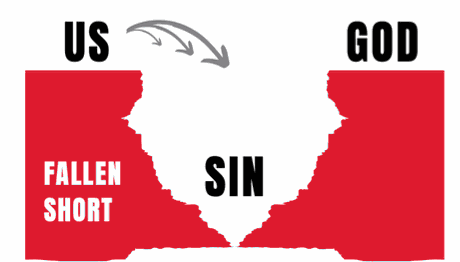
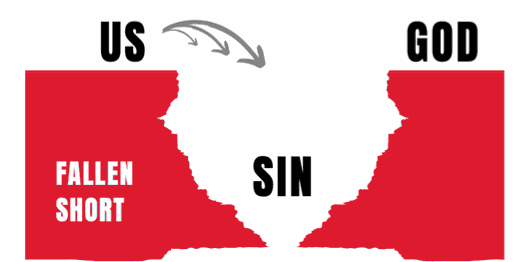
GL: bridge cliffs, baptism circles, remove pp35-36, p25 lines

diff --git a/2 - Group Leaders.html b/2 - Group Leaders.html
@@ -122,7 +122,7 @@
   section[data-screen-label="Make Disciples—I.W.T.F.C."] .row{padding:9px 0}
   section[data-screen-label="Make Disciples—I.W.T.F.C."] .row .k{font-family:var(--font-display);font-size:20px;line-height:1;padding-top:0}
   .iwt .iwl{color:var(--ember)}
-  .row.iwrow{border-bottom:1px solid var(--hairline)}
+  .row.iwrow{border-bottom:none}
   .t.iwt{display:flex;align-items:center;gap:12px;flex-wrap:wrap}
   .iwt .iw{font-family:var(--font-display);font-weight:700;text-transform:uppercase;font-size:20px;line-height:1;color:var(--fg1);letter-spacing:-.005em}
   .iwt .iq{font-size:13.5px;font-weight:600;color:var(--ember)}
@@ -440,10 +440,10 @@
 
   /* number device (block + circle bites) + section bar */
   .bsec{display:flex;align-items:stretch;height:50px;flex:none}
-  .bk{flex:none;width:38px;background:radial-gradient(circle 28px at calc(100% + 20px) 50%, transparent 27.6px, var(--bblue) 28px);border-radius:12px 0 0 12px}
-  .bnc{flex:none;width:40px;display:flex;align-items:center;justify-content:center}
-  .bnc span{font-family:var(--font-display);color:var(--bblue);font-size:28px;line-height:1}
-  .bar{flex:1;min-width:0;background:radial-gradient(circle 28px at -20px 50%, transparent 27.6px, var(--bblue) 28px);border-radius:0 9px 9px 0;display:flex;align-items:center;padding:0 20px 0 24px}
+  .bk{flex:none;width:33px;background:var(--bblue);border-radius:12px 0 0 12px}
+  .bnc{flex:none;width:50px;display:flex;align-items:center;justify-content:center;background:radial-gradient(circle 25px at 50% 50%, #fff 24.4px, var(--bblue) 25px)}
+  .bnc span{font-family:var(--font-display);font-weight:700;color:var(--bblue);font-size:26px;line-height:1}
+  .bar{flex:1;min-width:0;background:var(--bblue);border-radius:0 9px 9px 0;display:flex;align-items:center;padding:0 20px 0 24px}
   .bar h3{font-family:var(--font-display);color:#fff;font-size:22px;letter-spacing:.02em;margin:0;text-transform:uppercase;display:flex;align-items:baseline;gap:7px;white-space:nowrap}
   .bar h3 .to{font-family:var(--font-body);font-style:italic;font-weight:600;font-size:14px;letter-spacing:.01em}
 
@@ -799,7 +799,7 @@ section[data-screen-label="Your Role—Luke 9 Rhythms"] .rt span em{font-style:n
     <div class="eyebrow">What&rsquo;s Inside</div>
     <h2 class="disp">Contents</h2>
     <div class="hr"></div>
-    <div class="rows"><div class="trow"><span class="tn">01</span><span class="tt">Mission + Mantras<small>Who we are &amp; what guides us</small></span><span class="tp">03</span></div><div class="trow"><span class="tn">02</span><span class="tt">Group Leader<small>What we ask &amp; what a win looks like</small></span><span class="tp">09</span></div><div class="trow"><span class="tn">03</span><span class="tt">Leading Well in Groups<small>Before, during &amp; when it gets hard</small></span><span class="tp">13</span></div><div class="trow"><span class="tn">04</span><span class="tt">Shepherding Students Beyond Groups<small>Trust, follow-up &amp; discipleship</small></span><span class="tp">19</span></div><div class="trow"><span class="tn">05</span><span class="tt">Decision Guide<small>Helping students take their next step</small></span><span class="tp">27</span></div><div class="trow"><span class="tn">06</span><span class="tt">Safety &amp; Care<small>In person, online &amp; tough conversations</small></span><span class="tp">31</span></div><div class="trow"><span class="tn">07</span><span class="tt">Big Three<small>Launch, Leader Night, Celebration &amp; Unleashed</small></span><span class="tp">37</span></div><div class="trow"><span class="tn">08</span><span class="tt">Further Resources<small>Questions &amp; values that keep us aligned</small></span><span class="tp">41</span></div></div>
+    <div class="rows"><div class="trow"><span class="tn">01</span><span class="tt">Mission + Mantras<small>Who we are &amp; what guides us</small></span><span class="tp">03</span></div><div class="trow"><span class="tn">02</span><span class="tt">Group Leader<small>What we ask &amp; what a win looks like</small></span><span class="tp">09</span></div><div class="trow"><span class="tn">03</span><span class="tt">Leading Well in Groups<small>Before, during &amp; when it gets hard</small></span><span class="tp">13</span></div><div class="trow"><span class="tn">04</span><span class="tt">Shepherding Students Beyond Groups<small>Trust, follow-up &amp; discipleship</small></span><span class="tp">19</span></div><div class="trow"><span class="tn">05</span><span class="tt">Decision Guide<small>Helping students take their next step</small></span><span class="tp">27</span></div><div class="trow"><span class="tn">06</span><span class="tt">Safety &amp; Care<small>In person, online &amp; tough conversations</small></span><span class="tp">31</span></div><div class="trow"><span class="tn">07</span><span class="tt">Big Three<small>Launch, Leader Night, Celebration &amp; Unleashed</small></span><span class="tp">35</span></div><div class="trow"><span class="tn">08</span><span class="tt">Further Resources<small>Questions &amp; values that keep us aligned</small></span><span class="tp">39</span></div></div>
     <div class="foot"><span class="sec">SE Students</span><span class="sec">Small Group Leaders</span></div>
   </section>
 
@@ -1508,24 +1508,6 @@ in the power of the Holy Spirit? Are they learning to feed themselves?
       <div class="foot"><span class="sec">Safety &amp; Care</span><span class="pn">34</span></div>
     </section>
 
-  <section class="page content" data-screen-label="Group Tools—Placeholder">
-    <div>
-      <div class="eyebrow">Coming Soon</div>
-      <h2 class="disp">Group Tools</h2>
-      <div class="hr"></div>
-      <p class="lead">How-tos for the tools you&rsquo;ll use every week.</p>
-    </div>
-    <div class="rows" style="display:flex;align-items:center;justify-content:center;margin-top:18px;border:2px dashed var(--hairline);border-radius:12px">
-      <div style="text-align:center;max-width:420px;padding:30px">
-        <div style="font-family:var(--font-mono);font-size:11px;letter-spacing:.14em;text-transform:uppercase;color:var(--ember);font-weight:700">Placeholder</div>
-        <div style="font-size:14px;color:var(--fg2);line-height:1.55;margin-top:10px">Group Manager · attendance tracking · roster and parent contacts.<br>Content to be added.</div>
-      </div>
-    </div>
-    <div class="foot"><span class="sec">Group Tools</span><span class="pn">35</span></div>
-  </section>
-
-  <section class="page photo" data-screen-label="Photo—Students worshiping with hands raised" style="position:relative;overflow:hidden;padding:0;background:#0d0d0d"><img src="assets/photos/inside/worship-hands.jpg" alt="Students worshiping with hands raised" style="position:absolute;inset:0;width:100%;height:100%;object-fit:cover;object-position:45% 50%"></section>
-
   <section class="page divider tlx" data-screen-label="Divider—Big Three">
     <div class="ghost disp">07</div>
     <div class="inner">
@@ -1534,7 +1516,7 @@ in the power of the Holy Spirit? Are they learning to feed themselves?
       <div class="sub">MSM + HSM. Three times a year we gather all our Student Ministry leaders together.</div>
       <div class="tab"></div>
     </div>
-    <div class="foot dark"><span class="sec">SE Students</span><span class="pn">37</span></div>
+    <div class="foot dark"><span class="sec">SE Students</span><span class="pn">35</span></div>
   </section>
 
   <section class="page content tlx sintro" data-screen-label="Big Three—Overview">
@@ -1548,7 +1530,7 @@ in the power of the Holy Spirit? Are they learning to feed themselves?
       <p class="lead">The Big Three are also a pivotal part of our onboarding process for new leaders. Connected to each one, we host an <b>Unleashed Leader Training</b> for all new and potential leaders to on-ramp into our ministry&mdash;with flexibility for onboarding when we aren&rsquo;t near one of those planned starting points.</p>
       <p class="lead">Your participation at each of these keystone moments is vital. We believe these moments together as a Student Ministry are foundational to keeping us aligned. <b>Put these dates on your calendar every year&mdash;and bring someone with you!</b></p>
     </div>
-    <div class="foot"><span class="sec">Big Three</span><span class="pn">38</span></div>
+    <div class="foot"><span class="sec">Big Three</span><span class="pn">36</span></div>
   </section>
 
   <section class="page content tlx" data-screen-label="Big Three—Events & Tips">
@@ -1580,7 +1562,7 @@ in the power of the Holy Spirit? Are they learning to feed themselves?
         <div class="tip"><div class="tk">Tip</div><p>Save the date in January. Bring someone who&rsquo;s thinking about serving&mdash;it&rsquo;s a great first look at our team before camp.</p></div>
       </div>
     </div>
-    <div class="foot"><span class="sec">Big Three</span><span class="pn">39</span></div>
+    <div class="foot"><span class="sec">Big Three</span><span class="pn">37</span></div>
   </section>
 
   <section class="page content tlx" data-screen-label="Unleashed Leaders—All Year">
@@ -1595,7 +1577,7 @@ in the power of the Holy Spirit? Are they learning to feed themselves?
       <p class="lead">Since Jesus himself continually raised the bar for his disciples, we inform those joining us about the cost of following Jesus up front, so later they aren&rsquo;t surprised by what we ask of them. In some ways it can appear we are talking people out of doing ministry. In actuality, we are just echoing Jesus&rsquo; call to make disciples&mdash;even some who heard it straight from Jesus&rsquo; mouth chose not to follow.</p>
       <p class="lead">We know things happen&mdash;but being up front about the commitment pays dividends when leaders know what they are signing up for and stick it out. Know someone who should serve with us? <b>Unleashed Leaders is their front door</b>&mdash;invite them and point them to the next one. <b>We love the community of leaders God has blessed us with. We get to fulfill Jesus&rsquo; mission together!</b></p>
     </div>
-    <div class="foot"><span class="sec">Big Three</span><span class="pn">40</span></div>
+    <div class="foot"><span class="sec">Big Three</span><span class="pn">38</span></div>
   </section>
 
   <section class="page divider gl" data-screen-label="Divider—Further Resources">
@@ -1606,7 +1588,7 @@ in the power of the Holy Spirit? Are they learning to feed themselves?
       <div class="sub">Questions and values to keep us aligned with the mission, season after season.</div>
       <div class="tab"></div>
     </div>
-    <div class="foot dark"><span class="sec">SE Students</span><span class="pn">41</span></div>
+    <div class="foot dark"><span class="sec">SE Students</span><span class="pn">39</span></div>
   </section>
 
   <section class="page content" data-screen-label="The Mission—Four Questions">
@@ -1622,7 +1604,7 @@ in the power of the Holy Spirit? Are they learning to feed themselves?
       <div class="row"><div class="k sm">03</div><div><div class="t">How am I connecting people to Jesus?</div><div class="b">As we are transformed, our purpose shifts. Jesus understood His mission&mdash;to seek and save the lost. He left the mission in the disciples&rsquo; hands. That mission is now yours to carry.</div></div></div>
       <div class="row"><div class="k sm">04</div><div><div class="t">How am I connecting people to one another?</div><div class="b">Neighborhoods, schools, workplaces and families need you to have vision for cultivating community. Belonging often opens the door of reception to Christ.</div></div></div>
     </div>
-    <div class="foot"><span class="sec">Further Resources</span><span class="pn">42</span></div>
+    <div class="foot"><span class="sec">Further Resources</span><span class="pn">40</span></div>
   </section>
 
   <section class="page content" data-screen-label="The Mission—Now &amp; Next Values">
@@ -1633,7 +1615,28 @@ in the power of the Holy Spirit? Are they learning to feed themselves?
       <p class="lead">It&rsquo;s easy to focus on what&rsquo;s happening in a student&rsquo;s life <i>now</i> and forget to prepare them for what&rsquo;s <i>next</i>. These five values shape how we lead&mdash;and what we ask of you.</p>
     </div>
     <div class="rows"><div class="row"><div class="k sm">01</div><div><div class="t">Be equipped</div><div class="b">You&rsquo;re not on your own. We&rsquo;ll equip and empower you to shepherd students through training, huddles, and a team leader in your corner.<span class="ref">Ephesians 4:12</span></div></div></div><div class="row"><div class="k sm">02</div><div><div class="t">Partner with parents</div><div class="b">Parents are the biggest influence in a student&rsquo;s faith. Learn their names, keep them in the loop, and work with them, not around them.</div></div></div><div class="row"><div class="k sm">03</div><div><div class="t">Reach the lost</div><div class="b">Help your students see their friends the way Jesus does&mdash;and give them the courage to invite and share.</div></div></div><div class="row"><div class="k sm">04</div><div><div class="t">Next steps</div><div class="b">Help every student take their next step with Jesus and in life: baptism, a group, a serving role, a mission trip.</div></div></div><div class="row"><div class="k sm">05</div><div><div class="t">Intergenerational</div><div class="b">Students grow when adults of every age know them. Connect them to the wider church to serve, worship, and learn alongside other generations.</div></div></div></div>
-    <div class="foot"><span class="sec">Further Resources</span><span class="pn">43</span></div>
+    <div class="foot"><span class="sec">Further Resources</span><span class="pn">41</span></div>
+  </section>
+
+  <section class="page content" data-screen-label="Notes">
+    <div style="height:117px"></div>
+    <div class="rows" style="margin-top:14px">
+      <div class="noteline"></div><div class="noteline"></div><div class="noteline"></div><div class="noteline"></div><div class="noteline"></div><div class="noteline"></div><div class="noteline"></div>
+      <div class="noteline"></div><div class="noteline"></div><div class="noteline"></div><div class="noteline"></div><div class="noteline"></div><div class="noteline"></div><div class="noteline"></div>
+    </div>
+    <div class="foot"><span class="sec">SE Students</span><span class="pn">42</span></div>
+  </section>
+
+  <section class="page content" data-screen-label="Notes">
+    <div>
+      <div class="eyebrow">Space to Think</div>
+      <h2 class="disp">Notes</h2>
+    </div>
+    <div class="rows" style="margin-top:14px">
+      <div class="noteline"></div><div class="noteline"></div><div class="noteline"></div><div class="noteline"></div><div class="noteline"></div><div class="noteline"></div><div class="noteline"></div>
+      <div class="noteline"></div><div class="noteline"></div><div class="noteline"></div><div class="noteline"></div><div class="noteline"></div><div class="noteline"></div><div class="noteline"></div>
+    </div>
+    <div class="foot"><span class="sec">SE Students</span><span class="pn">43</span></div>
   </section>
 
   <section class="page content" data-screen-label="Notes">
